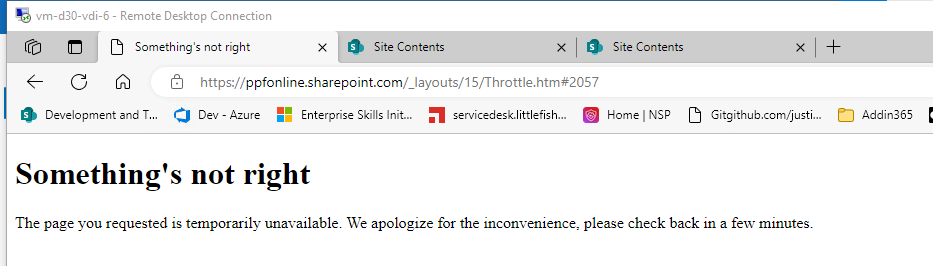
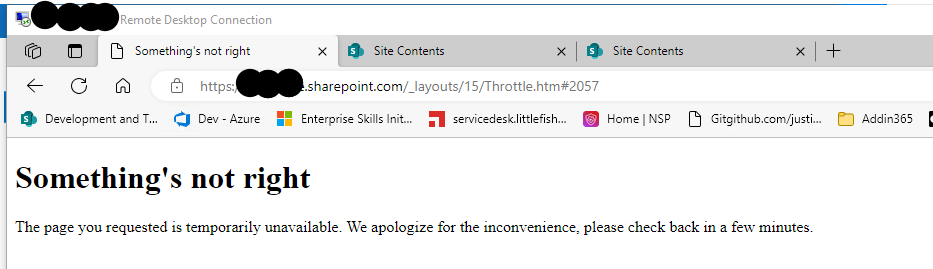
test

diff --git a/Hugo/sites/M365Blog/content/posts/PnPBatch-Update-BigList-SharePoint.md b/Hugo/sites/M365Blog/content/posts/PnPBatch-Update-BigList-SharePoint.md
@@ -1,14 +1,21 @@
 ---
 title: "PnP Batch updating a large list"
 date: 2023-07-20T14:49:19+01:00
-tags: ["Embed, Instagram","SharePoint Page"]
+tags: ["PnPBatch", "list","SharePoint", "Update"]
 draft: false
 ---
 
-# PnP Batch updating a large list
+# PnP Batch updating a large list of around 60 k
 
 ## Throttling
 
+If your site is being throttled , you might see the following message while navigating to a SharePoint site
+
+![Throttle](../images/PnPBatch-Update-BigList-SharePoint/Throttle_image.png)
+
+We had around 60k items to update on a test environment and still was taking more than 12 hours to update one item at a time. Using **PnP- Batch** helps to half the time with fewer requests sent , however it was prone to throttling which meant without exception handling and retry mechanism might have to start the update script manually.
+ 
+ 
 ```PowerShell
 $siteUrl = "https://contoso.sharepoint.com/teams/test"
 
@@ -20,7 +27,7 @@ $OutPutView = $directorypath + $fileName
 $fileName = "\GroupRefReport-" + $dateTime + ".csv"
 $OutPutGroup = $directorypath + $fileName
 
-$list = "Remittances"
+$list = "Receipts"
 
 Connect-PnPOnline –Url $siteUrl -interactive
 $listItems = Get-PnPListItem -List $list  -PageSize 500 | Where {$_.FieldValues.GroupingReference -ne $null } #-and $_.FieldValues.ParentId -eq $null
@@ -63,8 +70,6 @@ Write-Host "Updating $index"
   Invoke-PnPBatch $batch
 $Stoploop = $true
 
- 
-
 }
 catch {
 if ($Retrycount -gt 3){
@@ -82,15 +87,9 @@ else {
 While ($Stoploop -eq $false)
 }
 
- 
-
-
 ForEach($Group in $Groups) 
 {
-
- 
-
-    $ParenId = ($Group.Group | Select-Object -first 1).ID 
+   $ParenId = ($Group.Group | Select-Object -first 1).ID 
    $log = New-Object PSObject -Property @{
        GroupingRef  = ($Group.Group | Select-Object -first 1).GroupingRef
        CountOfRecordsUpdated  =  $Group.Count - 1 
